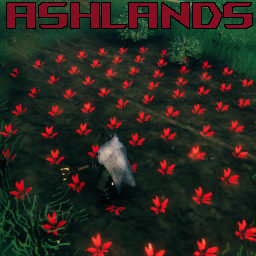
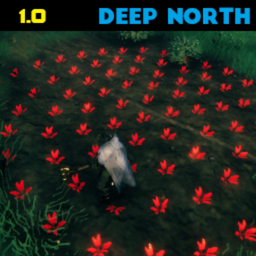
Release CropUtils 2.0.4 for Valheim 1.0.12 (#18)
Fix compatibility with Valheim 1.0.12, synchronize the 2.0.4 package, update the Deep North icon, and add the manual release workflow.

diff --git a/ValheimMods/Crop_Utils/CropUtils.cs b/ValheimMods/Crop_Utils/CropUtils.cs
@@ -19,7 +19,7 @@ namespace Crop_Utils
 
         public const string PluginGUID = "com.nopetrides.valheim.crop-utils";
         public const string PluginName = "Crop Utils";
-        public const string PluginVersion = "2.0.1";
+        public const string PluginVersion = "2.0.4";
         public const string VALHEIM_EXE_NAME = "valheim.exe";
         internal const string LoggerName = "CropUtilsLog";
 
@@ -165,7 +165,10 @@ namespace Crop_Utils
             m_cropUtilDiscount = Config.Bind("Stamina & Tool Durability Discount",
                "StaminaDiscountConfig",
                20,
-               new ConfigDescription("The divider for how much less stamina planting uses when using the util (stamina cost / 20) default"));
+               new ConfigDescription(
+                   "Divides stamina and tool durability costs while using CropUtils (default: 20). " +
+                   "Valheim does not currently treat this discount as a cheat for achievements. " +
+                   "Achievement eligibility is controlled by Valheim and may change in future updates."));
             
             // Compatibility mode (allow custom crops)
             m_allowPlantAnything = Config.Bind("Mod Compatibility Mode",

diff --git a/ValheimMods/Crop_Utils/Scripts/PlantingUtil.cs b/ValheimMods/Crop_Utils/Scripts/PlantingUtil.cs
@@ -169,9 +169,10 @@ namespace Crop_Utils
             float staminaCost = equippedTool.m_shared.m_attack.m_attackStamina / CropUtils.Instance.Discount;
             float durabilityCost = equippedTool.m_shared.m_attack.m_attackStamina / CropUtils.Instance.Discount;
 
-            // Matches how Player.TryPlacePiece flags a placement as cheated before recording stats
-            bool cheated = (__instance.m_inventory.ItemCheated(_placedPiece.m_resources) ||
-                            Player.m_localPlayer.NoCostCheat()) && !PlayerProfile.s_bypassCheatChecks;
+            // Report how the placement was paid for. Valheim owns the separate policy that decides
+            // whether cheated placements affect achievements.
+            bool cheated = __instance.m_inventory.ItemCheated(_placedPiece.m_resources) ||
+                           __instance.NoCostCheat();
 
             foreach (Vector3 plantPosition in newPlantPositions)
             {

diff --git a/ValheimMods/Crop_Utils/README.md b/ValheimMods/Crop_Utils/README.md
@@ -1,4 +1,4 @@
-# CropUtils v 1.4.2
+# CropUtils v 2.0.4
 
 Inspired by MassFarming by Xeio, but uses more efficient triangle packing for optimal placement as well as harvesting a large area at once.
 
@@ -47,6 +47,14 @@ Tested with some mods that add additional plants but compatability not guarentee
 	- Locking the shape with an invalid origin, then looking away may let you place the first plant even if it shows as invalid. All other plants should correctly respect the preview, only planting if they are valid.
 
 # Changelog:
+
+2.0.4
+
+Updated the package icon for Valheim 1.0 and the Deep North.
+
+2.0.3
+
+Fixed compatibility with Valheim 1.0.12. CropUtils no longer reads Valheim's removed `PlayerProfile.s_bypassCheatChecks` field. Additional placements still tell `Game.IncrementPlayerStat` whether cheated resources or No Cost mode were used, while Valheim remains responsible for achievement opt-in policy.
 
 1.4.2
 

diff --git a/ValheimMods/Crop_Utils/Thunderstore/README.md b/ValheimMods/Crop_Utils/Thunderstore/README.md
@@ -1,4 +1,4 @@
-# CropUtils v 2.0.1
+# CropUtils v 2.0.4
 
 Inspired by MassFarming by Xeio, but uses more efficient triangle packing for optimal placement as well as harvesting a large area at once.
 
@@ -47,6 +47,14 @@ Tested with some mods that add additional plants but compatibility not guarentee
 	- Locking the shape with an invalid origin, then looking away may let you place the first plant even if it shows as invalid. All other plants should correctly respect the preview, only planting if they are valid.
 
 # Changelog:
+
+2.0.4
+
+Updated the package icon for Valheim 1.0 and the Deep North.
+
+2.0.3
+
+Fixed compatibility with Valheim 1.0.12. CropUtils no longer reads Valheim's removed `PlayerProfile.s_bypassCheatChecks` field. Additional placements still tell `Game.IncrementPlayerStat` whether cheated resources or No Cost mode were used, while Valheim remains responsible for achievement opt-in policy.
 
 2.0.1
 
